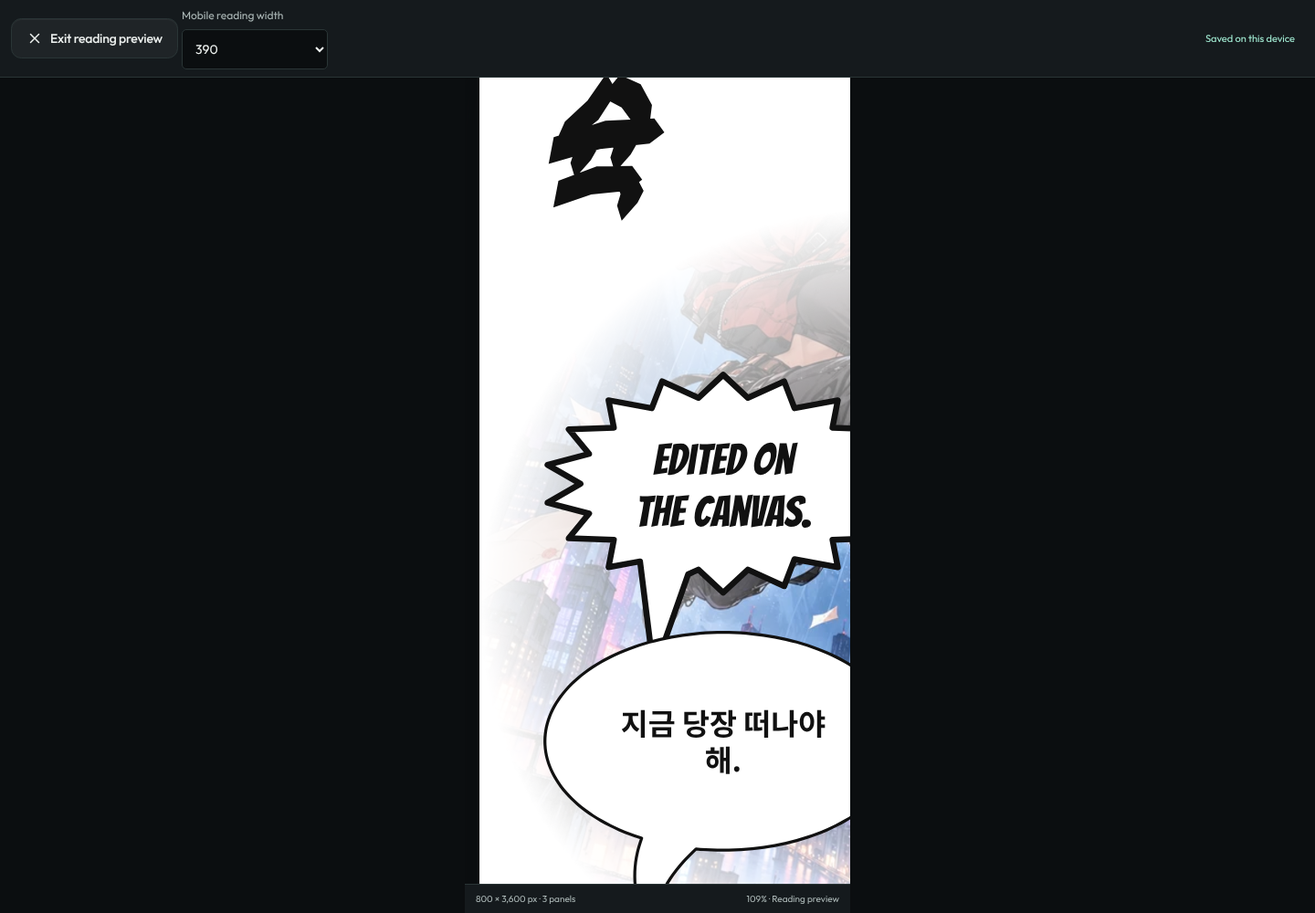
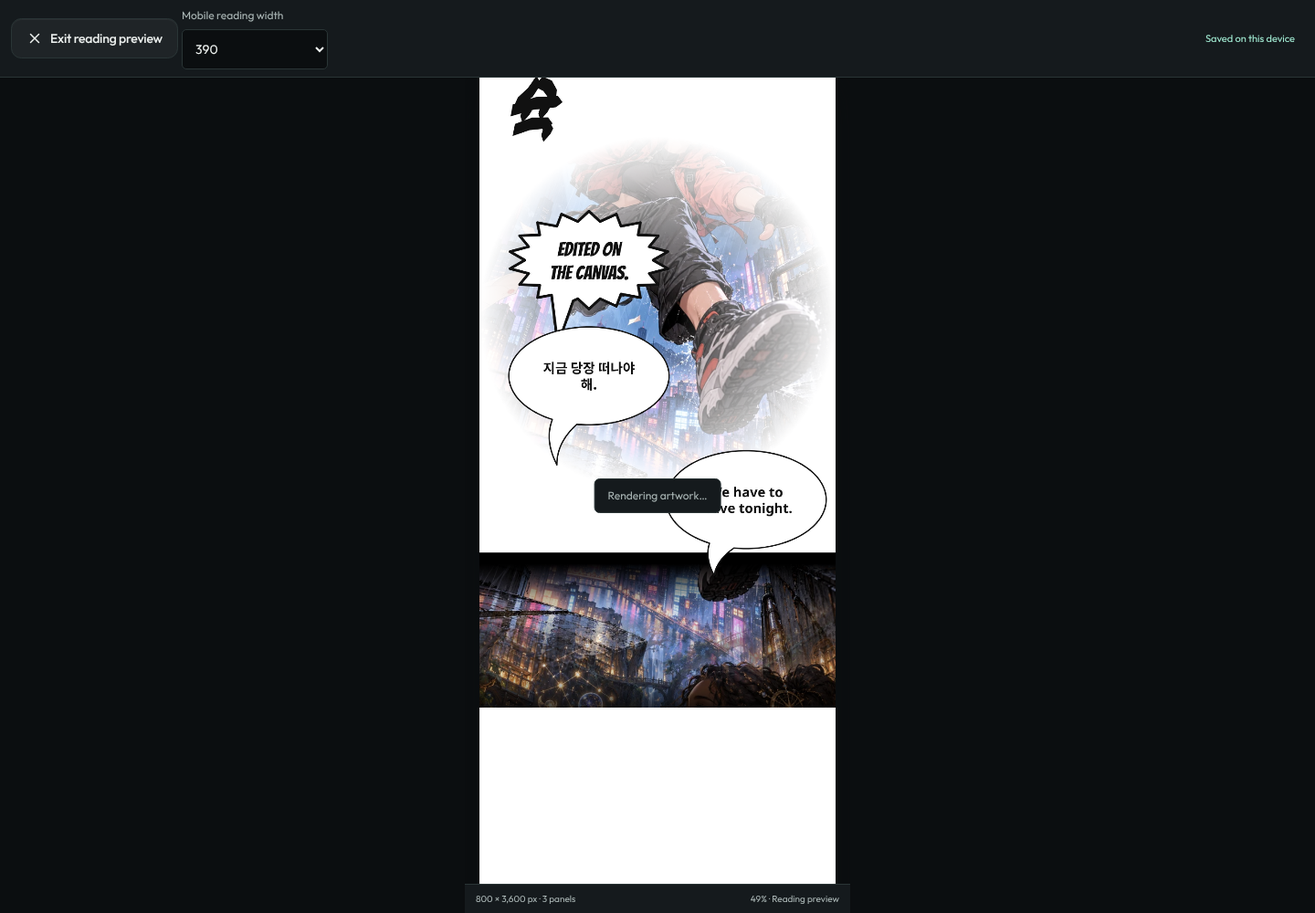
Polish placement overlays, docs and validation evidence
- Smart placement prefers fully disjoint suggestions, counts tails as occupied
  space, clips labels to their outline and stacks the best suggestion on top.
- Contextual empty-state hint in Text & Bubbles; dialogue suites wait for the
  lazily loaded editor before opening Panel documents.
- Package round-trip test for chapter lettering and saved bubble/text styles.
- Report, changelog, README link, npm script and dev/built browser evidence.

Claude-Session: https://claude.ai/code/session_01MZ15GDQ89Kx2eCZeGLuq3r

Changed region(s): [[0.3438, 0.062, 0.6562, 0.992], [0.4688, 0.899, 0.5, 0.93], [0.4375, 0.868, 0.4688, 0.899]]

diff --git a/src/lib/studio/composition/model.test.ts b/src/lib/studio/composition/model.test.ts
@@ -23,6 +23,7 @@ import { fadeCoverage, noise, stopValue } from "./masks.ts";
 import { createHistory, record, undo, redo } from "../editor/history.ts";
 import { validateChapterRecord, partitionLibrary } from "../records.ts";
 import { encodeBackup, decodeBackup, projectBlobIds } from "../backup.ts";
+import { bubble } from "./bubble-presets.ts";
 import type { Panel, Chapter, Project } from "../types.ts";
 const project: Project = {
   id: "project",
@@ -459,4 +460,45 @@ test("creative hit testing follows unified stack order and respects parent clipp
   o.y = -150;
   o.clip = true;
   assert.equal(pickCreative(d, frames, { x: 100, y: -50 }, layerStack(d)), null);
+});
+test("editable packages round-trip chapter lettering and saved bubble/text styles", async () => {
+  const d = scene();
+  const speech = { ...bubble("Standard dialogue"), owner: "p1", y: -60, rotation: 12 },
+    vertical = { ...bubble("Japanese vertical"), x: 300, y: 40 },
+    arabic = { ...bubble("Arabic dialogue"), owner: "p0" };
+  d.objects = [speech, vertical, arabic];
+  const preferences = {
+    presets: [
+      {
+        id: "style",
+        name: "Shout style",
+        category: "bubble" as const,
+        collection: "Bubble style",
+        value: bubble("Shouting"),
+      },
+    ],
+    favorites: ["bubble:Thought"],
+  };
+  const c = { ...chapter, composition: { version: 1, revision: 3, document: d } },
+    blobs = new Map(
+      panels.flatMap(
+        (p) =>
+          [
+            [p.blobId, new Blob(["art"])],
+            [p.thumbId, new Blob(["thumbnail"])],
+          ] as [string, Blob][],
+      ),
+    );
+  const restored = await decodeBackup(
+    encodeBackup({
+      project: { ...project, compositionPreferences: preferences },
+      chapters: [c],
+      panels,
+      blobs,
+    }),
+  );
+  assert.deepEqual(restored.chapters[0].composition, c.composition);
+  assert.deepEqual(restored.project.compositionPreferences, preferences);
+  // Bubbles carry no media, so no extra blobs are referenced.
+  assert.equal(restored.blobs.size, panels.length * 2);
 });

diff --git a/src/components/studio/composition/canvas.tsx b/src/components/studio/composition/canvas.tsx
@@ -1144,7 +1144,13 @@ export function CompositionCanvas({
                   <div
                     key={`suggestion-${i}`}
                     className="composition-suggestion"
-                    style={{ left: r.x, top: r.y - origin, width: r.width, height: r.height }}
+                    style={{
+                      left: r.x,
+                      top: r.y - origin,
+                      width: r.width,
+                      height: r.height,
+                      zIndex: 20 - i,
+                    }}
                   >
                     <button
                       style={{ fontSize: 13 / scale, padding: `${4 / scale}px ${8 / scale}px` }}

diff --git a/src/components/studio/composition/properties.tsx b/src/components/studio/composition/properties.tsx
@@ -264,7 +264,9 @@ export function CompositionProperties({
   onNative,
   onOverlay,
   onSaveStyle,
+  emptyHint,
 }: {
+  emptyHint?: string;
   onSaveStyle?: (kind: "Bubble style" | "Text style", value: Bubble) => void;
   controller: Controller;
   session: Session;
@@ -1433,7 +1435,7 @@ export function CompositionProperties({
         ) : (
           <>
             <h3>Composition properties</h3>
-            <p>Select a panel, gap, fade or effect to edit it.</p>
+            <p>{emptyHint ?? "Select a panel, gap, fade or effect to edit it."}</p>
             <Color
               label="Chapter background"
               value={d.background}

diff --git a/src/components/studio/composition/workspace.tsx b/src/components/studio/composition/workspace.tsx
@@ -1027,6 +1027,11 @@ export default function CompositionWorkspace({
               <fieldset disabled={session.blocked || session.before || busy}>
                 <CompositionProperties
                   onSaveStyle={saveStyle}
+                  emptyHint={
+                    lettering
+                      ? "Select a bubble or text to edit its words, typography, shape and tails. Shift-click to select several."
+                      : undefined
+                  }
                   controller={controller}
                   session={session}
                   document={d}

diff --git a/src/components/studio/composition/composition.css b/src/components/studio/composition/composition.css
@@ -902,10 +902,14 @@
   display: flex;
   align-items: flex-start;
   justify-content: center;
+  overflow: hidden;
 }
 .composition-suggestion button {
   pointer-events: auto;
   margin-top: 6px;
+  max-width: calc(100% - 8px);
+  overflow: hidden;
+  text-overflow: ellipsis;
   border-radius: 999px;
   background: #38d6e8;
   color: #06202a;

diff --git a/docs/TEXT_BUBBLES_SFX_STUDIO.md b/docs/TEXT_BUBBLES_SFX_STUDIO.md
@@ -1,0 +1,221 @@
+# Text & Bubbles chapter editor, Composition consolidation and SFX extractor
+
+Branch `ccr-c99428ac-muftv7`, based on `main` at `be88186` (PR #38).
+
+## 1. Repository audit (what existed)
+
+- **Composition & FX** (`src/components/studio/composition/*`,
+  `src/lib/studio/composition/*`) already owned one chapter controller per chapter
+  (`controller.ts`): immutable history, 650 ms debounced autosave with revision and
+  panel-order compare-and-swap, a versioned `Chapter.composition` envelope, project
+  presets/favorites, a unified layer stack and one region renderer (`render.ts`) used by
+  the editing canvas, reading simulator and segmented export.
+- Coordinates: logical pixels at the chapter width. Panel-local objects are relative to
+  their owner's image top; chapter-global objects are absolute (`layout()`,
+  `objectMatrix()`). Chapter and Focus modes are two views of the same scene.
+- **Text & Bubbles** was a list of "Edit dialogue · panel" buttons that opened the
+  per-panel native Pro document editor (OCR, cleanup, translation review). There was no
+  chapter-level lettering and no way to letter across panels or into spacing.
+- Reusable pieces: the Dialogue lettering engine (`dialogue/lettering.ts`: locale word
+  breaking, grapheme-safe wrapping, fit-to-box, vertical Japanese), the offline anime
+  face cascade (`faces/`), asset presets with blob retention in backups, the ZIP and
+  segment writer.
+- Tests: 1,175 unit tests (`npm test`) and Playwright suites per feature
+  (`scripts/*-browser-check.mjs`); CI runs typecheck, lint, tests, build and
+  `check:build`.
+
+**Decision.** Lettering became a new creative object kind (`bubble`) inside the existing
+composition document instead of a parallel editor. Text & Bubbles is a second mode of
+the same workspace and controller, so Chapter mode, Focus mode, Composition & FX, undo
+history, autosave, the reader and export all operate on one scene. No IndexedDB
+upgrade or migration is needed: the kind is additive; chapters without bubbles are
+byte-for-byte unchanged and open exactly as before.
+
+## 2. What is implemented
+
+### Unified chapter scene
+
+| Area        | Delivered                                                                                                                                                                                                                                                                                              |
+| ----------- | ------------------------------------------------------------------------------------------------------------------------------------------------------------------------------------------------------------------------------------------------------------------------------------------------------ |
+| Coordinates | Bubbles are ordinary composition objects: panel-local or chapter-global, unclipped by default, placeable in panels, extensions, gaps, opening and ending. Dropping a bubble whose centre lies in another panel re-anchors it to that panel while keeping its world position (unit + browser verified). |
+| Modes       | Text & Bubbles and Composition & FX share one controller per chapter: same history, autosave, focus and zoom. Switching modes never resets positions (browser-verified offset equality between Chapter and Focus: identical to 1e-9).                                                                  |
+| Rendering   | `paintBubble` renders through the shared region renderer, with the segment-stable rasterizer (previously ink-only) generalized to bubbles, so preview tiles, reader and segmented export match.                                                                                                        |
+
+### Text & Bubbles (new chapter-level editor)
+
+- **Bubble library** — 15 original, visually previewed presets: Standard dialogue,
+  Thought, Shouting, Whispering, Narration, Internal monologue, Telephone / electronic,
+  Dramatic, Scream, Hand-drawn, Dark caption, Text on art, Korean dialogue, Japanese
+  vertical, Arabic dialogue. Category filter, favorites, click-to-insert or drag onto
+  any point of the chapter.
+- **Editable geometry** — ten outline shapes (Oval, Rounded, Rectangle, Cloud, Burst,
+  Jagged, Scream, Wobbly, Electronic, None) with corner radius, spike/bump count and an
+  "irregular outline" amount (seeded, deterministic). Up to eight tails per bubble in
+  four styles (Curved, Straight, Dots, Zigzag) merged into one outline so a single
+  stroke surrounds bubble and tail; base width, curvature, anchor position and tip.
+  Fill colour/opacity or transparent, border colour/thickness, dashed border, drop
+  shadow (colour, blur, offset) and text padding.
+- **Direct manipulation** — drag to move; corner handle resizes width/height (text
+  re-wraps); rotation handle rotates about the centre (Shift = 15° steps, 45° detents);
+  cyan tail-tip handles and ring anchor handles slide along the outline; double-click
+  a bubble to type on the canvas; 44 px handles on touch.
+- **Typography** — font gallery with live previews of the bubble's own text (bundled
+  OFL Noto Sans/KR/JP/Arabic, Bangers, Outfit, Fraunces, system serif/monospace), size,
+  weight, italic, colour, alignment, letter and line spacing, shrink-to-fit, text
+  outline and shadow, language, direction and writing mode. Vertical columns for
+  Japanese/Chinese/Korean. "Match font & direction to script" detects Hangul, kana,
+  Han, Arabic/Hebrew (first-strong bidi rule). Full lines are shaped by the browser,
+  preserving Arabic joining and bidirectional runs.
+- **Chapter dialogue list** — every bubble in reading order across the chapter, editable
+  in place, filterable, with "show on canvas".
+- **Reusable styles** — save a bubble style or text style to the project, apply it to
+  the selection or insert from it; copy/paste style; apply one bubble's typography to
+  every bubble in the chapter in one undo step.
+- **Smart placement (optional, advisory)** — renders the selected panel _without_ its
+  bubbles at low resolution, builds a detail map (luminance spread + gradient), runs the
+  existing on-device face detector, and scores candidate rectangles by detail, face
+  overlap, collisions with existing lettering (including tails) and reading order.
+  Up to three disjoint suggestions appear as outlines with "Place here". Nothing moves
+  unless the user places one; existing objects are never repositioned (browser
+  asserted).
+- **Multi-select** — Shift-click adds layers; dragging moves them together; align
+  left/centre/right/top/middle/bottom and distribute horizontally/vertically.
+- **Panel documents** — the original per-panel native dialogue editor (OCR, cleanup,
+  translation review, chapter dialogue export) is unchanged under Advanced.
+
+### Composition & FX — consolidated navigation
+
+Eleven peer tabs became four primary categories plus an Advanced group. Every tool is
+still present:
+
+| Category            | Contents                                                                                                                                                                                                                                                                     |
+| ------------------- | ---------------------------------------------------------------------------------------------------------------------------------------------------------------------------------------------------------------------------------------------------------------------------- |
+| Panels              | Thumbnails, multi-select, drag-and-drop reorder (arrows on touch), per-panel show/hide and lock toggles, Focus.                                                                                                                                                              |
+| Spacing             | Region selection, default gap, eight quick gap presets with swatches (white/black/transparent/gradient/blurred) applied to all selected panels in one undo step, saved spacing presets. Exact pixels and drag handles unchanged.                                             |
+| Fades & Transitions | Sub-tabs: **Shapes** (nine boundary masks), **Fade types** (all 13 classic fades as thumbnails rendered with the renderer's coverage function), **Transitions** (all 10 types as thumbnails using the same per-row/per-pixel formula). Saved fade/transition presets inline. |
+| Manhwa SFX          | Sub-tabs: **Built-in** (original vector Hangul/English ink gallery + classic lettering styles), **My Assets** (imported/extracted art + saved SFX lettering), **Import**, **Extract**, **Favorites** (starred words, styles, effects and assets).                            |
+| Advanced            | Layers, Effects Library (+ saved FX presets), Overlays & Sources (overlay import, source show/hide/lock/properties), All presets.                                                                                                                                            |
+
+Earlier tool names map onto the new sections (`nav.ts`), so stored sessions and
+internal links keep working. A **Snap** toggle controls guides; snapping now also
+includes other objects' edges and centres.
+
+### SFX & artwork extractor (Manhwa SFX → Extract)
+
+- Source: any chapter panel (accepted image, read-only) or an imported PNG/JPEG/WebP.
+- Selection: Rectangle, Polygon, Lasso.
+- Preliminary mask: offline colour-key matting — up to three background colours are
+  estimated from the selection border (k-means, tiny clusters ignored); alpha ramps
+  with colour distance, preserving antialiased edges, gradients and fine strokes;
+  optional edge decontamination removes the background colour from semi-transparent
+  pixels. Tolerance/softness regenerate the mask.
+- Refinement: Keep brush, Remove-background brush (colour-key under the brush only),
+  Eraser, Restore brush; size and hardness; bounded undo/redo; zoom and pan.
+- Preview over a checkerboard, "show original" toggle.
+- Output: recolor (strength, keep shading), outline (alpha dilation), drop shadow,
+  opacity; cropped to the artwork; PNG or WebP (falls back to PNG when the browser
+  cannot encode WebP). "Save to My Assets" or "Save and place in chapter". Saved
+  assets use the existing asset presets, so they are reusable across chapters and
+  included in editable project packages.
+- The original image is never modified (browser test compares SHA-256 of the panel
+  blob before/after).
+
+## 3. Usage
+
+1. Open a chapter → **Text & Bubbles**. Choose a bubble card (or drag it to any spot,
+   including a gap). Type in **Dialogue text**, or double-click the bubble on the canvas.
+2. Drag the bubble; use the corner handle to resize, the round top handle to rotate,
+   cyan dots to aim tails. Properties → Bubble shape / Tails for exact values.
+3. **Focus** isolates the selected panel with the same objects; **Return to Chapter**.
+4. **Dialogue** lists all lettering in reading order. **Smart placement** → _Suggest
+   positions_ → _Place here_.
+5. Save a look with Properties → Reusable styles. It appears under Bubbles.
+6. **Composition & FX → Manhwa SFX → Extract** → choose a panel → draw a rectangle,
+   polygon or lasso → refine → _Save to My Assets_.
+7. **Preview** for the reader, **Export** for PNG/JPEG/WebP segments (bubbles included),
+   **Export editable project** for a full package.
+
+Keyboard: Ctrl/⌘+Z / Shift+Z / Y undo/redo, Ctrl+D duplicate, Delete, Escape (exit
+inline editing, focus, preview), Ctrl+S save. Shift-click multi-select.
+
+## 4. Compatibility and data safety
+
+- `CompositionObject` gains `Bubble` (`kind: "bubble"`), validated by
+  `validateBubbleObject` (closed shape/tail/language lists, colour/number ranges, font
+  name allowlist). `CompositionPreset.category` gains `"bubble"`. Nothing else changes.
+- Existing projects, chapters, panels, spacing, fades, SFX, layers, Raster/Pro and
+  dialogue documents, backups v1–v3 and exports are untouched; all previous unit and
+  browser regressions pass. Opening an old chapter does not rewrite it.
+- **Forward compatibility caveat:** a chapter containing bubbles is rejected by the
+  composition validator of _older_ app versions (shown as unavailable composition with
+  recovery export, not data loss). Use this version or later to edit such chapters.
+- Bubbles contain no media; packages round-trip them and bubble presets exactly
+  (unit-tested).
+- Offline: every new feature runs locally. No new dependency, service or network call.
+
+## 5. Validation (run on this branch, 2026-11-07, Node 22.23, Chromium)
+
+| Check                                                         | Result                                                                                                                                                                                                                                                                                                                                                                                                                                                                                                                                                                                                           |
+| ------------------------------------------------------------- | ---------------------------------------------------------------------------------------------------------------------------------------------------------------------------------------------------------------------------------------------------------------------------------------------------------------------------------------------------------------------------------------------------------------------------------------------------------------------------------------------------------------------------------------------------------------------------------------------------------------- |
+| `npm test`                                                    | **1,201 passed, 0 failed** (204 script, 63 app, 151 Studio, 707 Pro, 76 Composition); audit probes passed. New: 15 bubble/placement/geometry tests, 11 extractor tests, 1 package round-trip.                                                                                                                                                                                                                                                                                                                                                                                                                    |
+| `npm run typecheck`, `npm run lint`                           | Passed, no warnings.                                                                                                                                                                                                                                                                                                                                                                                                                                                                                                                                                                                             |
+| `npm run build`, `npm run check:build`                        | Passed.                                                                                                                                                                                                                                                                                                                                                                                                                                                                                                                                                                                                          |
+| `scripts/lettering-browser-check.mjs` (dev)                   | **20 steps passed**: navigation/categories, panel toggles + drag reorder + undo, spacing presets, fade/transition galleries, SFX tabs/favorites, extractor (transparent PNG 292×292; 31,366 transparent and 4,414 opaque pixels; source SHA-256 unchanged), bubble insertion/editing, resize/tail/rotation handles, undo/redo, cross-panel re-anchoring, Chapter/Focus agreement, inline editing, alignment, smart placement (3 suggestions, no existing object moved), reload persistence, export parity, UI PNG download, shared layers, legacy panel documents, 320/390 px touch with no horizontal overflow. |
+| Same suite on the built output (`--built`, `preview:restart`) | 13 UI steps passed (module-introspection steps are dev-only, as in the existing suites).                                                                                                                                                                                                                                                                                                                                                                                                                                                                                                                         |
+| Export parity with bubbles                                    | Full 640 px render vs 8 export segments (389 px): 2,880/2,880 rows, **0 values differing by more than 2**, max channel difference 1 ([evidence](text-bubbles/evidence/export-parity.json)).                                                                                                                                                                                                                                                                                                                                                                                                                      |
+| Existing suites                                               | `composition-browser-check`, `composition-advanced-browser-check`, `composition-deep-check`, `dialogue-browser-check` (1440/768/320/390), `dialogue-workflow-browser-check` (real OCR), `dialogue-render-browser-check`, `chapter-display-import-browser-check`: all passed.                                                                                                                                                                                                                                                                                                                                     |
+| `scripts/browser-smoke.mjs`                                   | Dev and built desktop/mobile: no console/page errors, no overflow, no brand warnings, built does not diverge from dev.                                                                                                                                                                                                                                                                                                                                                                                                                                                                                           |
+
+QA environment notes (not product changes): the sandbox egress policy blocks
+`grok.com`, so the platform branding script fails to load here; existing suites were run
+with a QA-only preload that answers that single host with an empty script, and the new
+suite records third-party failures separately while still failing on any local error.
+OCR language data was fetched through the session proxy with TLS verification intact.
+The repository pins Playwright 1.64; the preinstalled Chromium build was aliased for it.
+
+## 6. Capability inventory and known limits
+
+**Partial / deferred — stated plainly:**
+
+- _Automatic extraction_ is deterministic colour-key matting, not semantic/AI
+  segmentation. It works best on flat or simple backgrounds; complex backgrounds need
+  the brushes. No local segmentation model is bundled.
+- _Perspective SFX transforms_ remain unavailable (affine move/rotate/scale/skew only),
+  as in the earlier Composition report.
+- _Smart placement_ is heuristic. The anime face cascade can miss or misfire; the UI
+  says so and never moves existing objects.
+- _Vertical writing_ is offered for Japanese, Chinese and Korean; mixed-script vertical
+  typesetting rules (tate-chū-yoko, ruby) are not implemented.
+- Script shaping relies on the browser's text engine with bundled Noto fonts; scripts
+  without a bundled font use system fonts when available.
+- Panel drag-and-drop uses HTML drag events (desktop); touch uses the arrow buttons.
+- "Effect combination" presets are not a single preset type; groups, duplicated groups
+  and the cross-chapter clipboard serve that purpose.
+- Multi-object transforms are move and align/distribute; there is no group
+  scale/rotate gizmo for a multi-selection (use a layer group).
+- Chromium desktop/touch emulation only; Safari/WebKit and physical devices were not
+  verified in this environment.
+
+## 7. Files
+
+| Files                                                                                               | Responsibility                                                                                                                                  |
+| --------------------------------------------------------------------------------------------------- | ----------------------------------------------------------------------------------------------------------------------------------------------- |
+| `src/lib/studio/composition/bubble.ts`                                                              | Bubble schema, outline/tail geometry, path tracing, lettering layout bridge, painting, validation, script detection.                            |
+| `src/lib/studio/composition/bubble-presets.ts`                                                      | 15 presets, factory, style keys, placement helper.                                                                                              |
+| `src/lib/studio/composition/placement.ts`                                                           | Detail map and deterministic placement scoring.                                                                                                 |
+| `src/lib/studio/composition/extract.ts`                                                             | Selection rasterization, matting, brushes, decontamination, recolor/outline/shadow, cropping.                                                   |
+| `src/lib/studio/composition/{model,render,geometry,controller}.ts`                                  | Additive kind/preset category, rendering integration, rotate-about-centre, re-anchoring, alignment, multi-select/snap/suggestion session state. |
+| `src/components/studio/composition/{lettering,bubble-properties,extractor,fx-galleries,nav}.tsx/ts` | Text & Bubbles tools, contextual bubble inspector, extractor UI, fade/transition galleries, navigation map.                                     |
+| `src/components/studio/composition/{workspace,library,canvas,properties,sfx-gallery}.tsx`, CSS      | Mode switch, consolidated navigation, handles/overlays, favorites.                                                                              |
+| `src/components/studio/chapter-studio.tsx`                                                          | Text & Bubbles tab mounts the chapter editor; legacy panel documents passed through.                                                            |
+| `scripts/lettering-browser-check.mjs` and updated suites                                            | End-to-end evidence. Screenshots: [docs/text-bubbles/screenshots](text-bubbles/screenshots).                                                    |
+
+## Screenshots
+
+- [Text & Bubbles chapter editor](text-bubbles/screenshots/chapter-lettering.png)
+- [Bubble library and inspector](text-bubbles/screenshots/bubble-library.png)
+- [Smart placement suggestions](text-bubbles/screenshots/smart-placement.png)
+- [Focus mode](text-bubbles/screenshots/focus-mode.png)
+- [Consolidated Composition navigation](text-bubbles/screenshots/composition-navigation.png)
+- [Reading preview](text-bubbles/screenshots/reading-preview.png)
+- [390 px touch](text-bubbles/screenshots/mobile-390.png) · [320 px touch](text-bubbles/screenshots/mobile-320.png)

diff --git a/docs/CHANGELOG.md b/docs/CHANGELOG.md
@@ -1,5 +1,21 @@
 # Inkstrip release changelog
 
+## Text & Bubbles chapter editor, Composition consolidation, SFX extractor
+
+- Text & Bubbles is now a chapter-level editor on the same scene and history as
+  Composition & FX: Chapter and Focus modes, 15 visual bubble presets, ten editable
+  shapes, multi-tail geometry, direct resize/rotate/tail handles, inline canvas typing,
+  multilingual typography (Korean, vertical Japanese, Arabic RTL), a chapter dialogue
+  list, reusable bubble/text styles and optional smart-placement suggestions.
+  Per-panel native dialogue documents remain under Advanced.
+- Composition & FX navigation is consolidated into Panels, Spacing, Fades &
+  Transitions and Manhwa SFX plus Advanced, with thumbnail galleries for every fade and
+  transition, quick spacing presets, panel drag-and-drop and show/lock toggles.
+- New SFX & artwork extractor: selections, offline colour-key matting, refinement
+  brushes, recolor/outline/shadow and transparent PNG/WebP assets; sources untouched.
+- Multi-select alignment, object snapping toggle and re-anchoring across panels.
+- [Audit, implementation, validation and limits](TEXT_BUBBLES_SFX_STUDIO.md).
+
 ## Organic fades & Manhwa SFX — PR #34
 
 - Visual galleries for nine editable fade boundaries and original Hangul/English vector sound effects.

diff --git a/README.md b/README.md
@@ -18,3 +18,5 @@ and `npm run check:build`. No deployment command is included in CI.
 [Composition & FX Studio: usage, architecture, verified features, tests and screenshots](docs/COMPOSITION_FX_STUDIO.md)
 
 [Organic fade boundaries and original Manhwa SFX galleries](docs/ORGANIC_FADES_MANHWA_SFX.md)
+
+[Text & Bubbles chapter editor, consolidated Composition navigation and SFX extractor](docs/TEXT_BUBBLES_SFX_STUDIO.md)
